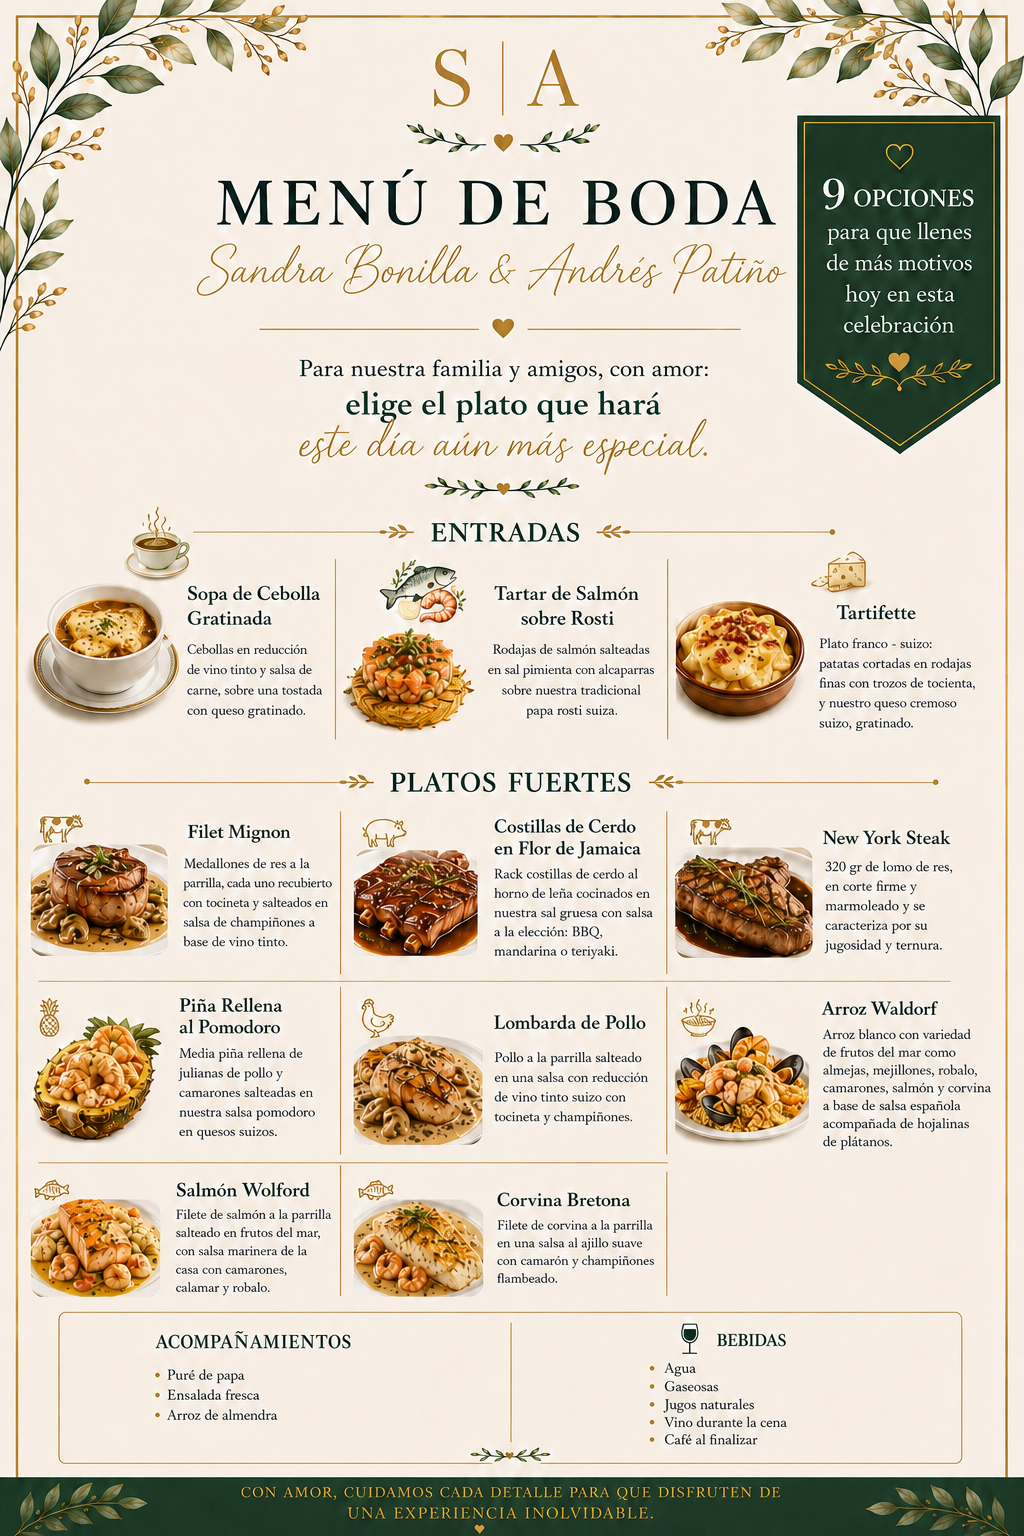
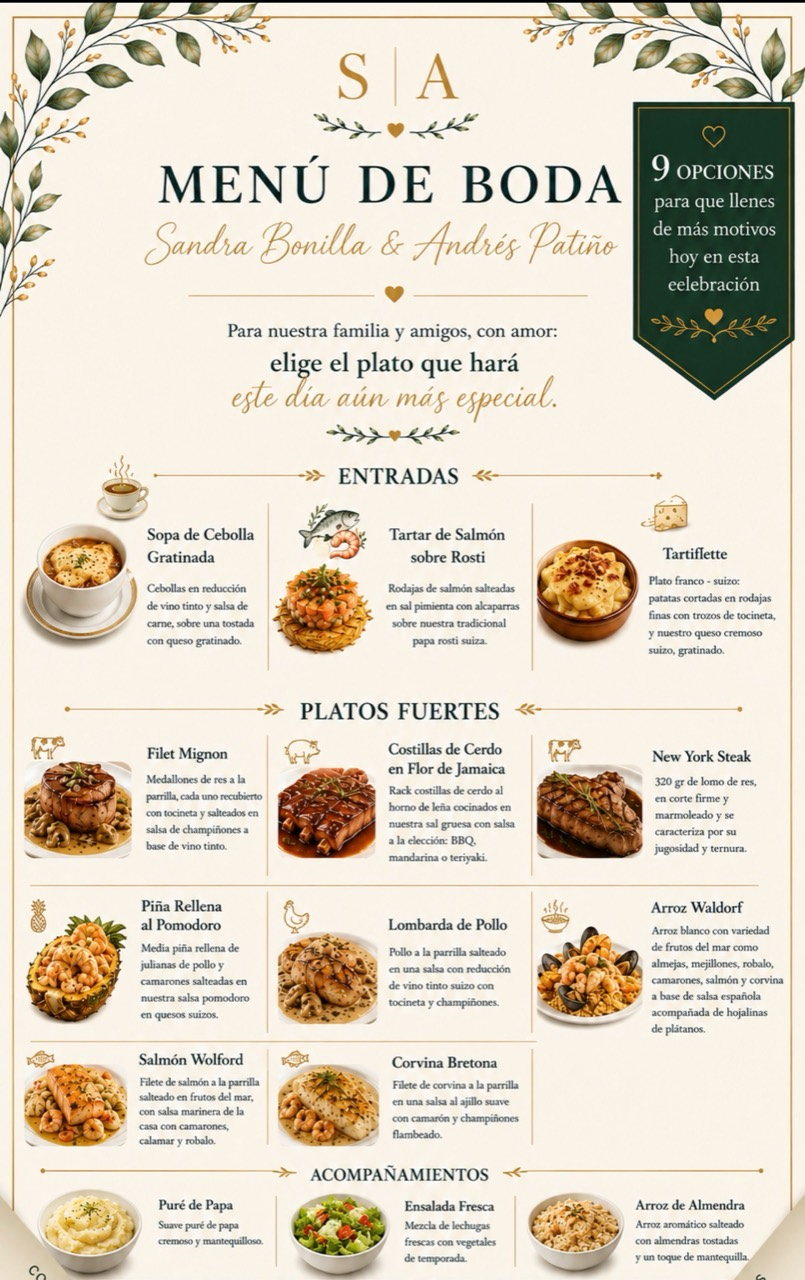
Publicar Wedding Experience v1.1.2

diff --git a/index.html b/index.html
@@ -8,12 +8,12 @@
     <link rel="preconnect" href="https://fonts.googleapis.com">
     <link rel="preconnect" href="https://fonts.gstatic.com" crossorigin>
     <link href="https://fonts.googleapis.com/css2?family=Cormorant+Garamond:ital,wght@0,400;0,500;0,600;1,400;1,500;1,600&family=Karla:wght@300;400;500;600&display=swap" rel="stylesheet">
-    <link rel="stylesheet" href="css/styles.css?v=1.1.1">
-    <link rel="stylesheet" href="css/responsive.css?v=1.1.1">
+    <link rel="stylesheet" href="css/styles.css?v=1.1.2">
+    <link rel="stylesheet" href="css/responsive.css?v=1.1.2">
     <link rel="stylesheet" href="vendor/photoswipe/photoswipe.css?v=5.4.4">
-    <link rel="stylesheet" href="css/stpageflip.css?v=1.1.1">
+    <link rel="stylesheet" href="css/stpageflip.css?v=1.1.2">
     <script src="vendor/page-flip.browser.js?v=2.0.7" defer></script>
-    <script type="module" src="js/app.js?v=1.1.1"></script>
+    <script type="module" src="js/app.js?v=1.1.2"></script>
   </head>
   <body>
     <main id="wedding-book" class="book" aria-label="Libro digital de nuestra boda">
@@ -29,8 +29,8 @@
           class="book-page__image book-page__image--menu"
           src="img/menu/menu-oficial.png"
           alt=""
-          width="1024"
-          height="1536"
+          width="805"
+          height="1280"
           decoding="async"
           fetchpriority="high"
           draggable="false"

diff --git a/js/app.js b/js/app.js
@@ -1,7 +1,7 @@
 import PhotoSwipe from "../vendor/photoswipe/photoswipe.esm.min.js";
 import {
   detectExperienceConfig,
-} from "./experience-config.js?v=1.1.1";
+} from "./experience-config.js?v=1.1.2";
 
 const EXPERIENCE_CONFIG = detectExperienceConfig();
 document.documentElement.classList.add(EXPERIENCE_CONFIG.className);
@@ -18,8 +18,8 @@ const pageNames = ["Menú oficial", "Agradecimiento"];
 const pageImages = [
   {
     src: "img/menu/menu-oficial.png",
-    width: 1024,
-    height: 1536,
+    width: 805,
+    height: 1280,
     alt: "Menú oficial de la boda de Sandra Bonilla y Andrés Patiño",
   },
   {
